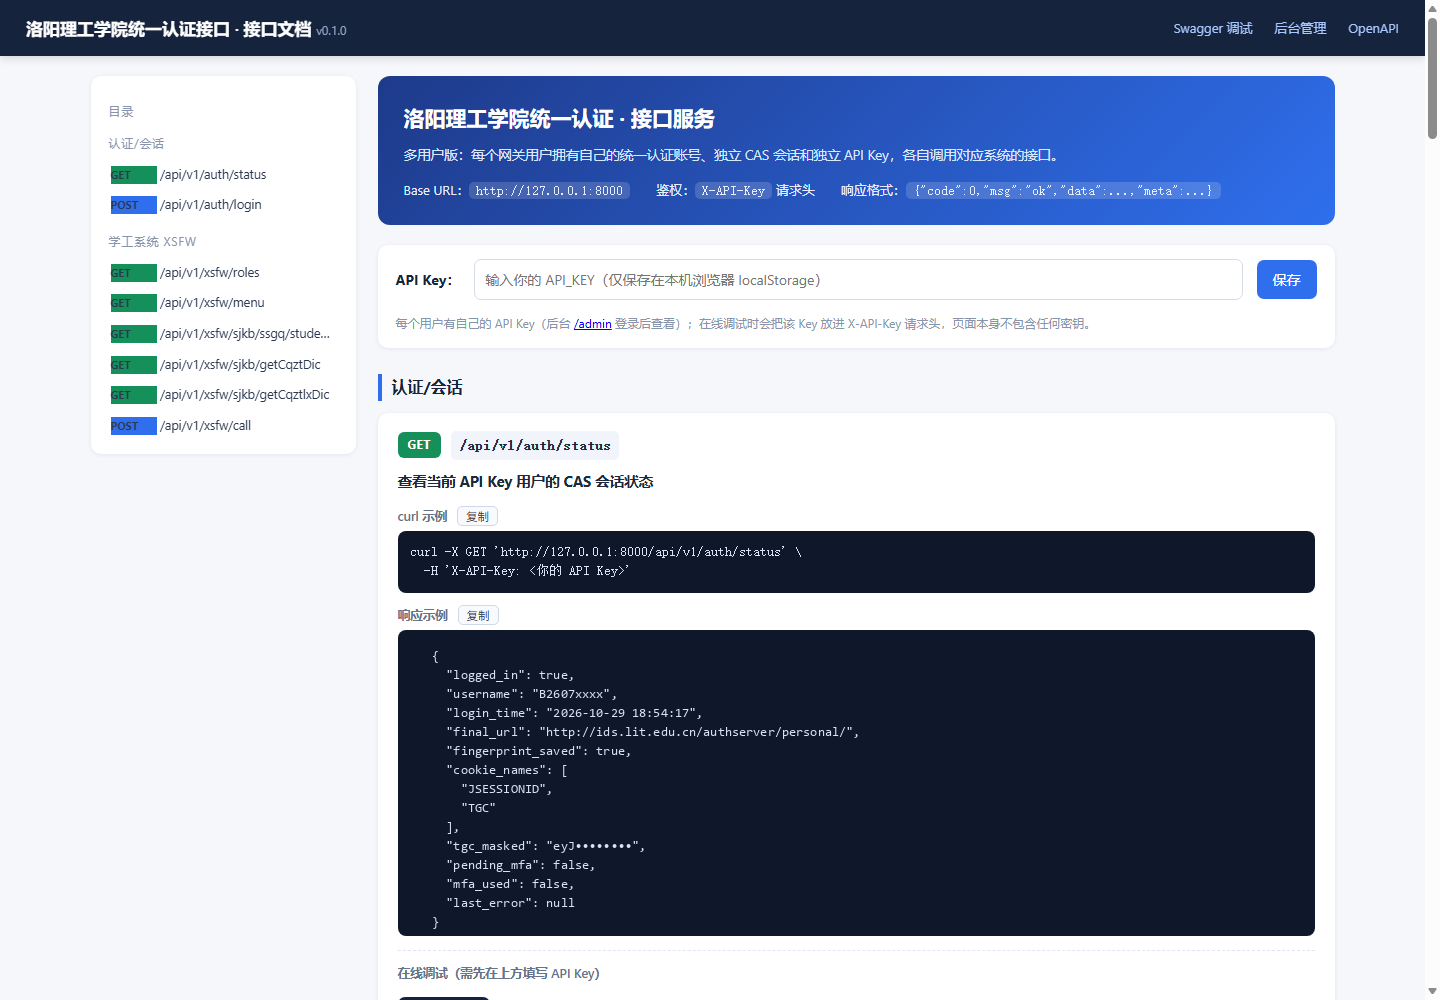
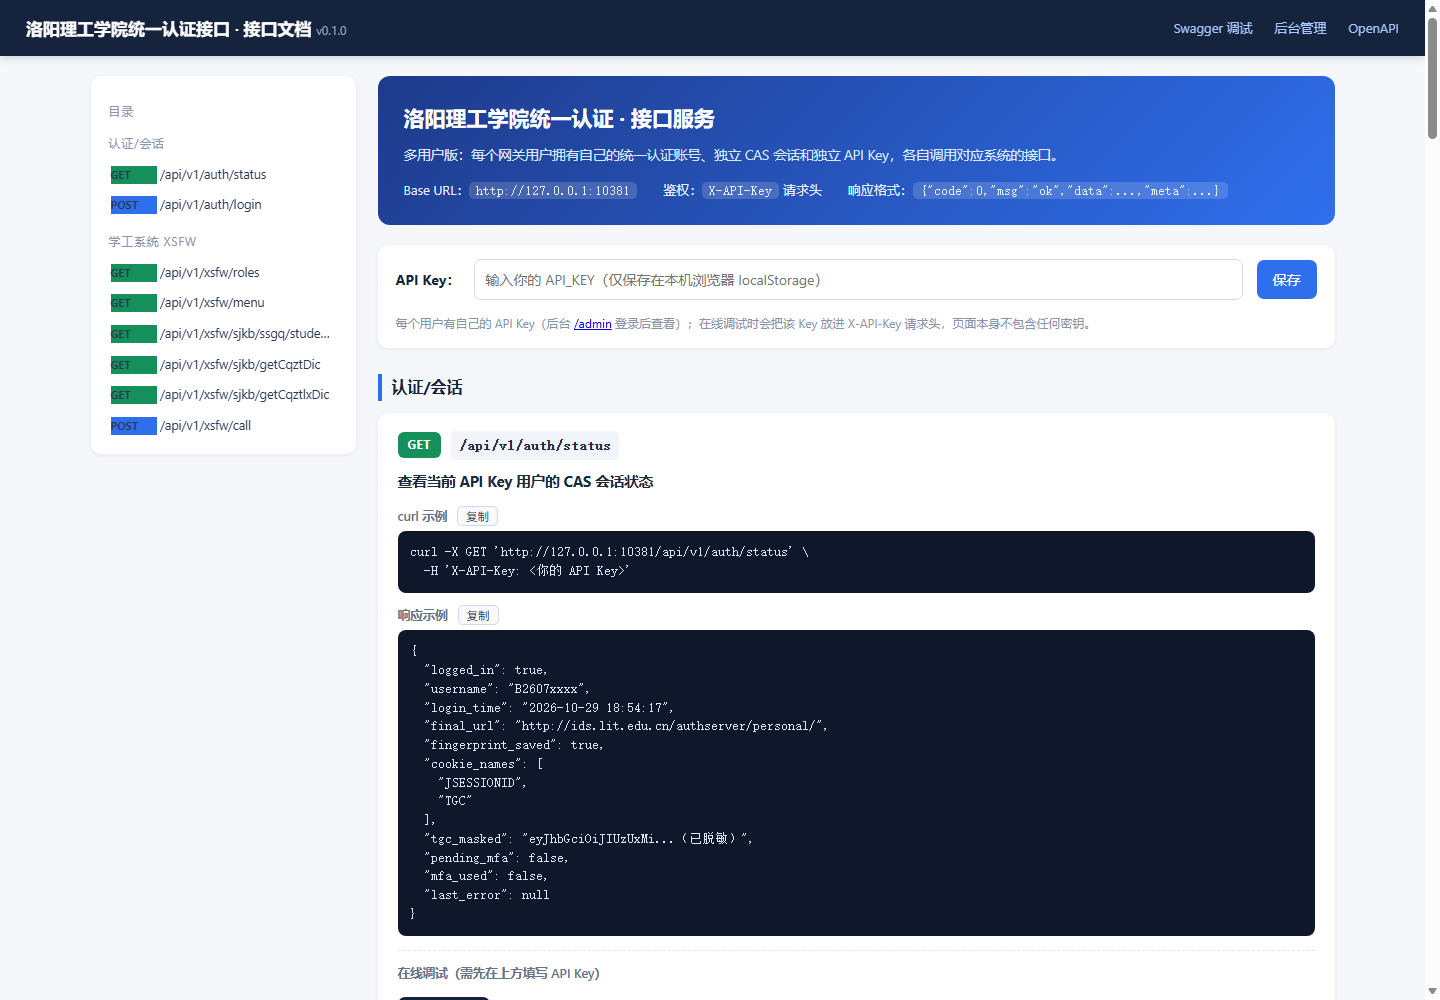
change: service port 8000 -> 10381

Changed region(s): [[0.3125, 0.651, 0.5938, 0.806], [0.4375, 0.186, 0.6562, 0.217], [0.3125, 0.837, 0.4375, 0.899]]

diff --git a/app/routers/docs.py b/app/routers/docs.py
@@ -38,7 +38,7 @@ EXAMPLES: dict[tuple[str, str], dict[str, Any]] = {
             "login_time": "2026-10-29 18:54:17",
             "final_url": "http://ids.lit.edu.cn/authserver/personal/",
             "fingerprint_saved": True, "cookie_names": ["JSESSIONID", "TGC"],
-            "tgc_masked": "eyJhbGciOiJIUzUxMi...uZtEOWMg",
+            "tgc_masked": "eyJhbGciOiJIUzUxMi...（已脱敏）",
             "pending_mfa": False, "mfa_used": False, "last_error": None,
         },
     },

diff --git a/app/main.py b/app/main.py
@@ -1,7 +1,7 @@
 """FastAPI 应用入口.
 
 运行:
-    uvicorn app.main:app --host 0.0.0.0 --port 8000
+    uvicorn app.main:app --host 0.0.0.0 --port 10381
 或使用 Docker:
     docker compose up -d
 

diff --git a/README.md b/README.md
@@ -59,7 +59,7 @@ cp .env.example .env
 docker compose up -d --build
 
 # 3) 打开后台
-#    http://127.0.0.1:8000/admin   （默认 admin / .env 里的 ADMIN_PASSWORD）
+#    http://127.0.0.1:10381/admin   （默认 admin / .env 里的 ADMIN_PASSWORD）
 ```
 
 后台菜单使用顺序：
@@ -75,17 +75,17 @@ docker compose up -d --build
 ```bash
 # 调用接口（每个用户用自己的 Key）
 curl -H "X-API-Key: <你的 API Key>" \
-     "http://127.0.0.1:8000/api/v1/xsfw/sjkb/ssgq/students?CQZT=2&pageSize=10"
+     "http://127.0.0.1:10381/api/v1/xsfw/sjkb/ssgq/students?CQZT=2&pageSize=10"
 ```
 
 入口一览：
 
-* **后台（菜单式，多用户）**：<http://127.0.0.1:8000/admin>
-* **前台接口文档**：<http://127.0.0.1:8000/>（别名 `/api-docs`）
-* **Swagger**：<http://127.0.0.1:8000/docs>
+* **后台（菜单式，多用户）**：<http://127.0.0.1:10381/admin>
+* **前台接口文档**：<http://127.0.0.1:10381/>（别名 `/api-docs`）
+* **Swagger**：<http://127.0.0.1:10381/docs>
 * 健康检查：`/healthz`、`/readyz`
 
-> 默认只监听宿主机 `127.0.0.1:8000`；需要局域网访问时设置 `API_BIND=0.0.0.0 API_PORT=8000` 后重新 `docker compose up -d`。
+> 默认只监听宿主机 `127.0.0.1:10381`；需要局域网访问时设置 `API_BIND=0.0.0.0 API_PORT=10381` 后重新 `docker compose up -d`。
 > 国内网络构建慢可加 `--build-arg PIP_INDEX_URL=https://pypi.tuna.tsinghua.edu.cn/simple`
 > （或设置同名环境变量；`docker compose build` 会读取）。
 
@@ -98,7 +98,7 @@ curl -H "X-API-Key: <你的 API Key>" \
 | 依赖可复现 | `requirements.txt` 固定精确版本（`==`），利用 Docker 层缓存 |
 | 最小上下文 | `.dockerignore` 排除 `data/ docs/ tests/ .env* README` 等，镜像内只有 `app/`、`lit_login.py`、`requirements.txt` |
 | 健康检查 | 镜像内置 `HEALTHCHECK` 访问 `/healthz`（compose 继承，`docker ps` 显示 healthy） |
-| 启动/信号 | exec 形式 `CMD ["uvicorn", ...]`、`STOPSIGNAL SIGTERM`、`EXPOSE 8000` |
+| 启动/信号 | exec 形式 `CMD ["uvicorn", ...]`、`STOPSIGNAL SIGTERM`、`EXPOSE 10381` |
 | 元数据 | OCI `LABEL`（title/description/version/licenses） |
 | 持久化 | `VOLUME ["/data"]` + compose bind mount `./data:/data`（用户/会话/设置都在这里） |
 | 运行加固 | `read_only` 根文件系统 + `/tmp` tmpfs、`cap_drop: ALL`、`no-new-privileges`、`init: true`、`pids_limit`、日志轮转、`restart: unless-stopped`、`stop_grace_period` |
@@ -158,11 +158,11 @@ curl -H "X-API-Key: <你的 API Key>" \
 | `CQZTLX` | query | 空 | 查寝状态类型：`11`=未联系上、`12`=已报备、`21`=正常归寝、`22`=晚归 |
 
 ```bash
-curl -H "X-API-Key: <你的 Key>" "http://127.0.0.1:8000/api/v1/xsfw/sjkb/ssgq/students?CQZT=2&pageSize=200"  # 已归寝
-curl -H "X-API-Key: <你的 Key>" "http://127.0.0.1:8000/api/v1/xsfw/sjkb/ssgq/students?CQZT=3&pageSize=200"  # 离校请假
-curl -H "X-API-Key: <你的 Key>" "http://127.0.0.1:8000/api/v1/xsfw/sjkb/ssgq/students?pageSize=200"          # 全部
-curl -H "X-API-Key: <你的 Key>" "http://127.0.0.1:8000/api/v1/xsfw/sjkb/getCqztDic"                        # 状态字典
-curl -H "X-API-Key: <你的 Key>" "http://127.0.0.1:8000/api/v1/xsfw/sjkb/getCqztlxDic?CQZT=2"               # 类型字典
+curl -H "X-API-Key: <你的 Key>" "http://127.0.0.1:10381/api/v1/xsfw/sjkb/ssgq/students?CQZT=2&pageSize=200"  # 已归寝
+curl -H "X-API-Key: <你的 Key>" "http://127.0.0.1:10381/api/v1/xsfw/sjkb/ssgq/students?CQZT=3&pageSize=200"  # 离校请假
+curl -H "X-API-Key: <你的 Key>" "http://127.0.0.1:10381/api/v1/xsfw/sjkb/ssgq/students?pageSize=200"          # 全部
+curl -H "X-API-Key: <你的 Key>" "http://127.0.0.1:10381/api/v1/xsfw/sjkb/getCqztDic"                        # 状态字典
+curl -H "X-API-Key: <你的 Key>" "http://127.0.0.1:10381/api/v1/xsfw/sjkb/getCqztlxDic?CQZT=2"               # 类型字典
 ```
 
 返回官方结构：`{"code":"0","msg":"成功","data":[{...}]}`。
@@ -177,7 +177,7 @@ curl -H "X-API-Key: <你的 Key>" "http://127.0.0.1:8000/api/v1/xsfw/sjkb/getCqz
 
 ## 5. 前台接口文档页面（`/`）
 
-浏览器打开 **http://127.0.0.1:8000/**（别名 `/api-docs`），无需登录后台。
+浏览器打开 **http://127.0.0.1:10381/**（别名 `/api-docs`），无需登录后台。
 
 ![前台接口文档](docs/api-docs.png)
 
@@ -253,7 +253,7 @@ app/
     health.py           健康检查
 tests/                  离线测试（26 个）：认证核心 / 接口 / 多用户后台 / 系统设置
 Dockerfile              python:3.12-slim、非 root、健康检查
-docker-compose.yml      数据卷 ./data:/data、env_file .env、端口 8000、restart 策略
+docker-compose.yml      数据卷 ./data:/data、env_file .env、端口 10381、restart 策略
 .env.example            初始化配置模板
 docs/                   界面截图
 data/                   用户表、各用户 CAS 会话、系统设置（运行时生成，勿提交）
@@ -264,7 +264,7 @@ data/                   用户表、各用户 CAS 会话、系统设置（运行
 ```bash
 pip install -r requirements-dev.txt
 python -m pytest tests -q          # 26 passed（离线，不访问校园网）
-uvicorn app.main:app --host 0.0.0.0 --port 8000 --reload
+uvicorn app.main:app --host 0.0.0.0 --port 10381 --reload
 ```
 
 测试覆盖：CAS 核心工具、API Key 鉴权、官方参数接口、字典接口、多用户登录/创建/删除、
